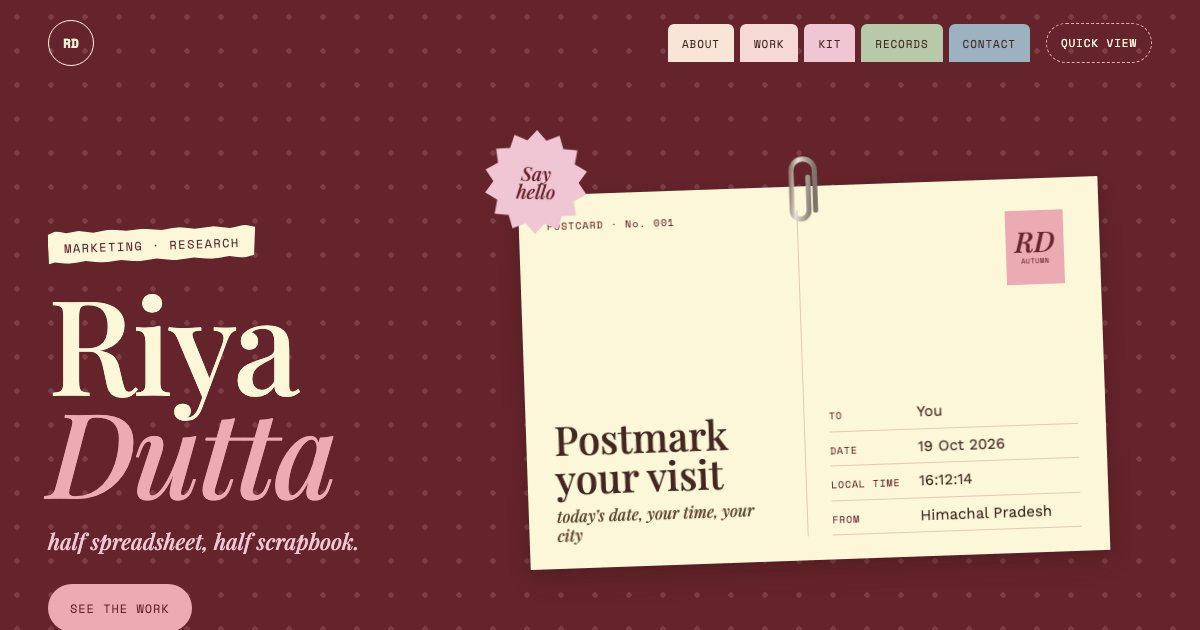
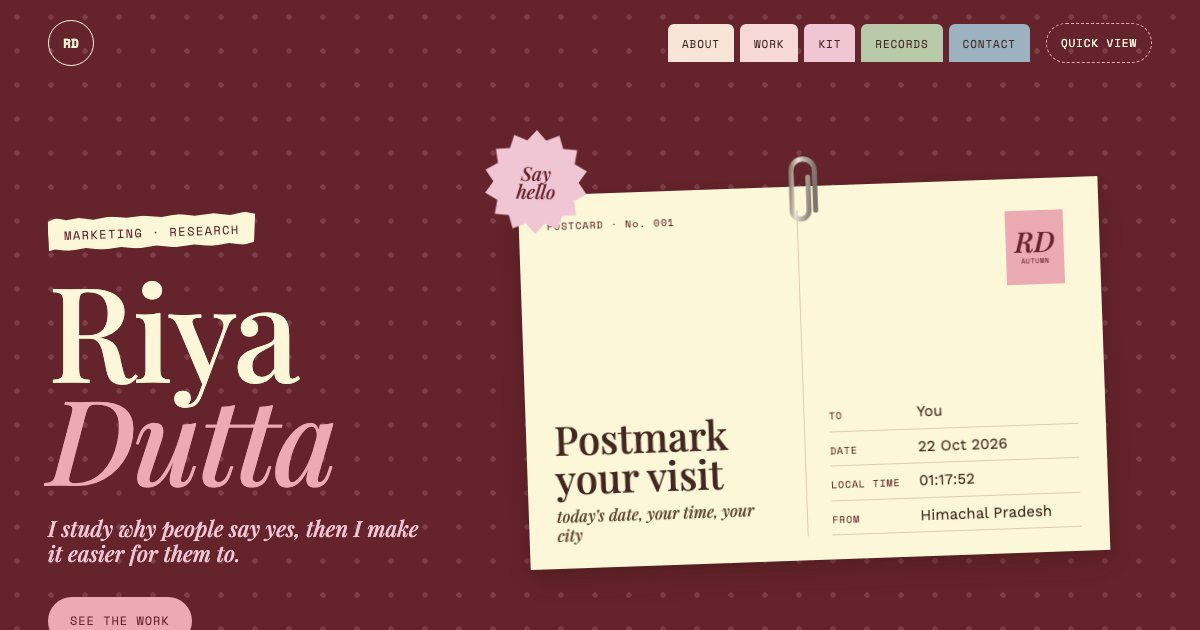
Update tagline

diff --git a/index.html b/index.html
@@ -690,7 +690,7 @@ body{margin:0;background:var(--vanilla)}
 </header>
 <div data-if="full" style="display: contents">
 <div style="display: flex; flex-wrap: wrap; align-items: center; gap: 48px 56px; padding: 44px 0 100px">
-<div style="flex: 1 1 380px; min-width: 0; max-width: 440px"><span class="torn" style="display: inline-block; padding: 9px 16px 7px; background: var(--vanilla); color: var(--cherry); font-family: var(--font-mono); font-size: 12px; letter-spacing: 0.12em; transform: rotate(-2deg)">MARKETING · RESEARCH</span><h1 style="margin: 22px 0 0; font-family: var(--font-display); font-weight: 500; line-height: 0.88; color: var(--vanilla)"><span style="display: block; font-size: 132px; letter-spacing: -0.02em">Riya</span><span style="display: block; font-style: italic; font-size: 118px; letter-spacing: -0.02em; color: var(--blossom)">Dutta</span></h1><p style="margin: 26px 0 0; font-family: var(--font-display); font-style: italic; font-size: 22px; line-height: 1.15; color: var(--pink)">half spreadsheet, half scrapbook.</p><div style="display: flex; flex-wrap: wrap; gap: 10px; margin-top: 30px">
+<div style="flex: 1 1 380px; min-width: 0; max-width: 440px"><span class="torn" style="display: inline-block; padding: 9px 16px 7px; background: var(--vanilla); color: var(--cherry); font-family: var(--font-mono); font-size: 12px; letter-spacing: 0.12em; transform: rotate(-2deg)">MARKETING · RESEARCH</span><h1 style="margin: 22px 0 0; font-family: var(--font-display); font-weight: 500; line-height: 0.88; color: var(--vanilla)"><span style="display: block; font-size: 132px; letter-spacing: -0.02em">Riya</span><span style="display: block; font-style: italic; font-size: 118px; letter-spacing: -0.02em; color: var(--blossom)">Dutta</span></h1><p style="margin: 26px 0 0; font-family: var(--font-display); font-style: italic; font-size: 22px; line-height: 1.15; color: var(--pink)">I study why people say yes, then I make it easier for them to.</p><div style="display: flex; flex-wrap: wrap; gap: 10px; margin-top: 30px">
 <a href="#work" style="display: inline-flex; align-items: center; min-height: 48px; padding: 0 22px; font-family: var(--font-mono); font-size: 12px; letter-spacing: 0.08em; text-transform: uppercase; color: var(--cherry); background: var(--blossom); border-radius: 999px">See the work</a>
 </div></div>
 <div style="flex: 999 1 560px; min-width: 0; position: relative; height: 600px">
@@ -715,7 +715,7 @@ body{margin:0;background:var(--vanilla)}
 </div>
 <div class="face2 back" style="padding: 24px 28px; background: var(--vanilla); color: var(--truffle); box-shadow: var(--shadow-lift); display: flex; flex-direction: column; gap: 10px">
 <span style="font-family: var(--font-mono); font-size: 10px; letter-spacing: 0.1em; color: var(--cherry)">FROM RIYA, TO YOU</span>
-<p style="margin: 0; font-family: var(--font-display); font-style: italic; font-size: 21px; line-height: 1.35">I make sense of things by cutting them out and arranging them until they say something.</p>
+<p style="margin: 0; font-family: var(--font-display); font-style: italic; font-size: 21px; line-height: 1.35">I study why people say yes, then I make it easier for them to.</p>
 <span style="font-family: var(--font-display); font-style: italic; font-size: 29px; line-height: 1; color: var(--cherry)">Riya</span>
 <div style="margin-top: auto; display: flex; flex-direction: column; gap: 5px">
 <span style="display: flex; align-items: baseline; gap: 10px; padding-bottom: 6px; border-bottom: 1px solid var(--ivory-deep); font-size: 15px; line-height: 1.3; "><span style="flex: none; width: 78px; font-family: var(--font-mono); font-size: 10px; font-style: normal; letter-spacing: 0.08em; color: var(--cherry)">NOW</span>Marketing and Sales Consultant, B2Ne</span><span style="display: flex; align-items: baseline; gap: 10px; padding-bottom: 6px; border-bottom: 1px solid var(--ivory-deep); font-size: 15px; line-height: 1.3; "><span style="flex: none; width: 78px; font-family: var(--font-mono); font-size: 10px; font-style: normal; letter-spacing: 0.08em; color: var(--cherry)">RESEARCH</span>Consumer behaviour, AI, trust, cognition</span>
@@ -743,7 +743,7 @@ body{margin:0;background:var(--vanilla)}
 <div style="max-width: 980px; margin: 0 auto; padding: 0 clamp(20px, 4vw, 56px)">
 <p style="margin: 0 0 12px; font-family: var(--font-mono); font-size: 11px; letter-spacing: 0.1em; color: var(--cherry)">QUICK VIEW · ONE PAGE</p>
 <div style="display: flex; align-items: center; gap: 28px"><img src="assets/img/riya-portrait.jpg" alt="Riya Dutta" style="flex: none; width: 120px; aspect-ratio: 4 / 5; object-fit: cover; border-radius: 6px; box-shadow: var(--shadow-paper)"><h1 style="margin: 0; font-family: var(--font-display); font-weight: 500; font-size: 80px; line-height: 0.95">Riya <em style="color: var(--cherry)">Dutta</em></h1></div>
-<p style="margin: 12px 0 0; font-family: var(--font-display); font-style: italic; font-size: 22px; line-height: 1.4; color: var(--cocoa)">I make sense of things by cutting them out and arranging them until they say something.</p>
+<p style="margin: 12px 0 0; font-family: var(--font-display); font-style: italic; font-size: 22px; line-height: 1.4; color: var(--cocoa)">I study why people say yes, then I make it easier for them to.</p>
 <p style="margin: 18px 0 0; display: flex; flex-wrap: wrap; gap: 8px 18px; font-family: var(--font-mono); font-size: 12px"><a href="https://www.linkedin.com/in/riyaa-duttaa" rel="me">LinkedIn</a><a href="mailto:riyavdutta@gmail.com">riyavdutta@gmail.com</a></p>
 <section style="display: grid; grid-template-columns: 200px minmax(0, 1fr); gap: 32px; padding: 30px 0 0"><h2 style="margin: 14px 0 0; font-family: var(--font-mono); font-size: 11px; font-weight: 400; letter-spacing: 0.1em; color: var(--cherry)">EXPERIENCE</h2><div><div style="display: grid; grid-template-columns: minmax(0, 1fr) 150px; gap: 24px; padding: 14px 0; border-bottom: 1px solid var(--ivory-deep)"><div><div style="font-size: 18px; line-height: 1.3; font-weight: 500">Marketing and Sales Consultant</div><div style="font-size: 15px; color: var(--cocoa-soft)">Business To Nexus (B2Ne) · Remote</div></div><div style="font-family: var(--font-mono); font-size: 12px; color: var(--cherry); text-align: right">2026 – now</div></div><div style="display: grid; grid-template-columns: minmax(0, 1fr) 150px; gap: 24px; padding: 14px 0; border-bottom: 1px solid var(--ivory-deep)"><div><div style="font-size: 18px; line-height: 1.3; font-weight: 500">Research Intern, Behavioural and Cognitive Methods</div><div style="font-size: 15px; color: var(--cocoa-soft)">ISLab, University of the Aegean · Samos</div></div><div style="font-family: var(--font-mono); font-size: 12px; color: var(--cherry); text-align: right">2025</div></div><div style="display: grid; grid-template-columns: minmax(0, 1fr) 150px; gap: 24px; padding: 14px 0; border-bottom: 1px solid var(--ivory-deep)"><div><div style="font-size: 18px; line-height: 1.3; font-weight: 500">Management Trainee</div><div style="font-size: 15px; color: var(--cocoa-soft)">HDFC Bank</div></div><div style="font-family: var(--font-mono); font-size: 12px; color: var(--cherry); text-align: right">2024 – 2025</div></div></div></section>
 <section style="display: grid; grid-template-columns: 200px minmax(0, 1fr); gap: 32px; padding: 30px 0 0"><h2 style="margin: 14px 0 0; font-family: var(--font-mono); font-size: 11px; font-weight: 400; letter-spacing: 0.1em; color: var(--cherry)">EDUCATION</h2><div><div style="display: grid; grid-template-columns: minmax(0, 1fr) 150px; gap: 24px; padding: 14px 0; border-bottom: 1px solid var(--ivory-deep)"><div><div style="font-size: 18px; line-height: 1.3; font-weight: 500">MBA, Marketing and Business Analytics</div><div style="font-size: 15px; color: var(--cocoa-soft)">LM Thapar School of Management · CGPA 8.50</div></div><div style="font-family: var(--font-mono); font-size: 12px; color: var(--cherry); text-align: right">2024 – 2026</div></div><div style="display: grid; grid-template-columns: minmax(0, 1fr) 150px; gap: 24px; padding: 14px 0; border-bottom: 1px solid var(--ivory-deep)"><div><div style="font-size: 18px; line-height: 1.3; font-weight: 500">B.Sc. (Hons.) Horticulture</div><div style="font-size: 15px; color: var(--cocoa-soft)">Dr. YS Parmar University of Horticulture and Forestry</div></div><div style="font-family: var(--font-mono); font-size: 12px; color: var(--cherry); text-align: right">2019 – 2023</div></div></div></section>
@@ -770,8 +770,7 @@ body{margin:0;background:var(--vanilla)}
 </div>
 <div style="flex: 1 1 460px; min-width: 0">
 <p style="margin: 0 0 18px; font-family: var(--font-mono); font-size: 11px; letter-spacing: 0.14em; color: var(--cherry)">ABOUT</p>
-<h2 id="about-h" style="font-family: var(--font-display); font-style: italic; font-weight: 500; font-size: 44px; line-height: 1.15; color: var(--cherry)">I make sense of things by cutting them out and arranging them until they say something.</h2>
-<p style="margin: 22px 0 28px; font-size: 20px; line-height: 1.5; color: var(--truffle)">I’m a marketer who studies how people decide: what they notice, what they trust, and what makes them act.</p>
+<h2 id="about-h" style="margin: 0 0 28px; font-family: var(--font-display); font-style: italic; font-weight: 500; font-size: 44px; line-height: 1.15; color: var(--cherry)">I’m a marketer who studies how people decide: what they notice, what they trust, and what makes them act.</h2>
 <ul style="border-bottom: 1px solid var(--ivory-deep)">
 <li style="display: grid; grid-template-columns: 56px minmax(0, 1fr); gap: 4px 16px; padding: 18px 0; border-top: 1px solid var(--ivory-deep)"><span style="grid-row: span 3; font-family: var(--font-display); font-style: italic; font-size: 44px; line-height: 0.9; color: var(--blossom-deep)">01</span><span style="font-family: var(--font-mono); font-size: 10px; letter-spacing: 0.12em; color: var(--cherry)">RESEARCH</span><span style="font-family: var(--font-display); font-weight: 500; font-size: 22px; line-height: 1.25; color: var(--truffle)">Co-author, TRACE-BRL</span><span style="font-size: 15px; line-height: 1.55; color: var(--cocoa)">A maturity model for behavioural research labs. Under review at <em>Cognition, Technology &amp; Work</em> (Springer Nature).</span></li>
 <li style="display: grid; grid-template-columns: 56px minmax(0, 1fr); gap: 4px 16px; padding: 18px 0; border-top: 1px solid var(--ivory-deep)"><span style="grid-row: span 3; font-family: var(--font-display); font-style: italic; font-size: 44px; line-height: 0.9; color: var(--blossom-deep)">02</span><span style="font-family: var(--font-mono); font-size: 10px; letter-spacing: 0.12em; color: var(--cherry)">BRAND FROM ZERO</span><span style="font-family: var(--font-display); font-weight: 500; font-size: 22px; line-height: 1.25; color: var(--truffle)">B2Ne’s positioning, website, pitch deck and content</span><span style="font-size: 15px; line-height: 1.55; color: var(--cocoa)">Built as a team of one for marketing.&nbsp;</span></li>
@@ -1442,7 +1441,7 @@ body{margin:0;background:var(--vanilla)}
 <div style="max-width: 980px; margin: 0 auto; padding: 0 20px">
 <p style="margin: 0 0 12px; font-family: var(--font-mono); font-size: 11px; letter-spacing: 0.1em; color: var(--cherry)">QUICK VIEW · ONE PAGE</p>
 <div style="display: flex; align-items: center; gap: 16px"><img src="assets/img/riya-portrait.jpg" alt="Riya Dutta" style="flex: none; width: 84px; aspect-ratio: 4 / 5; object-fit: cover; border-radius: 6px; box-shadow: var(--shadow-paper)"><h1 style="margin: 0; font-family: var(--font-display); font-weight: 500; font-size: 48px; line-height: 0.95">Riya <em style="color: var(--cherry)">Dutta</em></h1></div>
-<p style="margin: 12px 0 0; font-family: var(--font-display); font-style: italic; font-size: 18px; line-height: 1.4; color: var(--cocoa)">I make sense of things by cutting them out and arranging them until they say something.</p>
+<p style="margin: 12px 0 0; font-family: var(--font-display); font-style: italic; font-size: 18px; line-height: 1.4; color: var(--cocoa)">I study why people say yes, then I make it easier for them to.</p>
 <p style="margin: 18px 0 0; display: flex; flex-wrap: wrap; gap: 8px 18px; font-family: var(--font-mono); font-size: 12px"><a href="https://www.linkedin.com/in/riyaa-duttaa" rel="me">LinkedIn</a><a href="mailto:riyavdutta@gmail.com">riyavdutta@gmail.com</a></p>
 <section style="padding: 26px 0 0"><h2 style="margin: 0 0 6px; font-family: var(--font-mono); font-size: 11px; font-weight: 400; letter-spacing: 0.1em; color: var(--cherry)">EXPERIENCE</h2><div style="padding: 14px 0; border-bottom: 1px solid var(--ivory-deep)"><div style="font-size: 17px; line-height: 1.3; font-weight: 500">Marketing and Sales Consultant</div><div style="font-size: 14px; color: var(--cocoa-soft)">Business To Nexus (B2Ne) · Remote</div><div style="font-family: var(--font-mono); font-size: 11px; color: var(--cherry); margin-top: 4px">2026 – now</div></div><div style="padding: 14px 0; border-bottom: 1px solid var(--ivory-deep)"><div style="font-size: 17px; line-height: 1.3; font-weight: 500">Research Intern, Behavioural and Cognitive Methods</div><div style="font-size: 14px; color: var(--cocoa-soft)">ISLab, University of the Aegean · Samos</div><div style="font-family: var(--font-mono); font-size: 11px; color: var(--cherry); margin-top: 4px">2025</div></div><div style="padding: 14px 0; border-bottom: 1px solid var(--ivory-deep)"><div style="font-size: 17px; line-height: 1.3; font-weight: 500">Management Trainee</div><div style="font-size: 14px; color: var(--cocoa-soft)">HDFC Bank</div><div style="font-family: var(--font-mono); font-size: 11px; color: var(--cherry); margin-top: 4px">2024 – 2025</div></div></section>
 <section style="padding: 26px 0 0"><h2 style="margin: 0 0 6px; font-family: var(--font-mono); font-size: 11px; font-weight: 400; letter-spacing: 0.1em; color: var(--cherry)">EDUCATION</h2><div style="padding: 14px 0; border-bottom: 1px solid var(--ivory-deep)"><div style="font-size: 17px; line-height: 1.3; font-weight: 500">MBA, Marketing and Business Analytics</div><div style="font-size: 14px; color: var(--cocoa-soft)">LM Thapar School of Management · CGPA 8.50</div><div style="font-family: var(--font-mono); font-size: 11px; color: var(--cherry); margin-top: 4px">2024 – 2026</div></div><div style="padding: 14px 0; border-bottom: 1px solid var(--ivory-deep)"><div style="font-size: 17px; line-height: 1.3; font-weight: 500">B.Sc. (Hons.) Horticulture</div><div style="font-size: 14px; color: var(--cocoa-soft)">Dr. YS Parmar University of Horticulture and Forestry</div><div style="font-family: var(--font-mono); font-size: 11px; color: var(--cherry); margin-top: 4px">2019 – 2023</div></div></section>
@@ -1454,7 +1453,7 @@ body{margin:0;background:var(--vanilla)}
 </div>
 <div data-if="full" style="display: contents">
 <section style="background-color: var(--cherry); background-image: radial-gradient(rgba(240,197,212,0.16) 2px, transparent 2.5px); background-size: 26px 26px; color: var(--vanilla); padding: 34px 16px 44px">
-<span class="torn" style="display: inline-block; padding: 9px 16px 7px; background: var(--vanilla); color: var(--cherry); font-family: var(--font-mono); font-size: 11px; letter-spacing: 0.12em; transform: rotate(-2deg)">MARKETING · RESEARCH</span><h1 style="margin: 16px 0 0; font-family: var(--font-display); font-weight: 500; line-height: 0.88; color: var(--vanilla)"><span style="display: block; font-size: 88px; letter-spacing: -0.02em">Riya</span><span style="display: block; font-style: italic; font-size: 78px; letter-spacing: -0.02em; color: var(--blossom)">Dutta</span></h1><p style="margin: 18px 0 0; font-family: var(--font-display); font-style: italic; font-size: 17px; line-height: 1.15; color: var(--pink)">half spreadsheet, half scrapbook.</p><div style="display: flex; flex-wrap: wrap; gap: 10px; margin-top: 22px">
+<span class="torn" style="display: inline-block; padding: 9px 16px 7px; background: var(--vanilla); color: var(--cherry); font-family: var(--font-mono); font-size: 11px; letter-spacing: 0.12em; transform: rotate(-2deg)">MARKETING · RESEARCH</span><h1 style="margin: 16px 0 0; font-family: var(--font-display); font-weight: 500; line-height: 0.88; color: var(--vanilla)"><span style="display: block; font-size: 88px; letter-spacing: -0.02em">Riya</span><span style="display: block; font-style: italic; font-size: 78px; letter-spacing: -0.02em; color: var(--blossom)">Dutta</span></h1><p style="margin: 18px 0 0; font-family: var(--font-display); font-style: italic; font-size: 17px; line-height: 1.15; color: var(--pink)">I study why people say yes, then I make it easier for them to.</p><div style="display: flex; flex-wrap: wrap; gap: 10px; margin-top: 22px">
 <a href="#work" style="display: inline-flex; align-items: center; min-height: 48px; padding: 0 22px; font-family: var(--font-mono); font-size: 12px; letter-spacing: 0.08em; text-transform: uppercase; color: var(--cherry); background: var(--blossom); border-radius: 999px">See the work</a>
 </div>
 <div style="position: relative; margin-top: 46px">
@@ -1478,7 +1477,7 @@ body{margin:0;background:var(--vanilla)}
 </div>
 <div class="face2 back" style="padding: 16px; background: var(--vanilla); color: var(--truffle); box-shadow: var(--shadow-lift); display: flex; flex-direction: column; gap: 6px">
 <span style="font-family: var(--font-mono); font-size: 10px; letter-spacing: 0.1em; color: var(--cherry)">FROM RIYA, TO YOU</span>
-<p style="margin: 0; font-family: var(--font-display); font-style: italic; font-size: 16px; line-height: 1.35">I make sense of things by cutting them out and arranging them until they say something.</p>
+<p style="margin: 0; font-family: var(--font-display); font-style: italic; font-size: 16px; line-height: 1.35">I study why people say yes, then I make it easier for them to.</p>
 <span style="font-family: var(--font-display); font-style: italic; font-size: 22px; line-height: 1; color: var(--cherry)">Riya</span>
 <div style="margin-top: auto; display: flex; flex-direction: column; gap: 5px">
 <span style="display: flex; align-items: baseline; gap: 10px; padding-bottom: 6px; border-bottom: 1px solid var(--ivory-deep); font-size: 13px; line-height: 1.3; "><span style="flex: none; width: 78px; font-family: var(--font-mono); font-size: 10px; font-style: normal; letter-spacing: 0.08em; color: var(--cherry)">NOW</span>Marketing and Sales Consultant, B2Ne</span><span style="display: flex; align-items: baseline; gap: 10px; padding-bottom: 6px; border-bottom: 1px solid var(--ivory-deep); font-size: 13px; line-height: 1.3; "><span style="flex: none; width: 78px; font-family: var(--font-mono); font-size: 10px; font-style: normal; letter-spacing: 0.08em; color: var(--cherry)">RESEARCH</span>Consumer behaviour, AI, trust, cognition</span>
@@ -1512,8 +1511,7 @@ body{margin:0;background:var(--vanilla)}
 </div>
 <div style="flex: 1 1 460px; min-width: 0">
 <p style="margin: 0 0 18px; font-family: var(--font-mono); font-size: 11px; letter-spacing: 0.14em; color: var(--cherry)">ABOUT</p>
-<h2 id="about-h" style="font-family: var(--font-display); font-style: italic; font-weight: 500; font-size: 30px; line-height: 1.15; color: var(--cherry)">I make sense of things by cutting them out and arranging them until they say something.</h2>
-<p style="margin: 16px 0 22px; font-size: 17px; line-height: 1.5; color: var(--truffle)">I’m a marketer who studies how people decide: what they notice, what they trust, and what makes them act.</p>
+<h2 id="about-h" style="margin: 0 0 28px; font-family: var(--font-display); font-style: italic; font-weight: 500; font-size: 30px; line-height: 1.15; color: var(--cherry)">I’m a marketer who studies how people decide: what they notice, what they trust, and what makes them act.</h2>
 <ul style="border-bottom: 1px solid var(--ivory-deep)">
 <li style="display: grid; grid-template-columns: 44px minmax(0, 1fr); gap: 4px 16px; padding: 16px 0; border-top: 1px solid var(--ivory-deep)"><span style="grid-row: span 3; font-family: var(--font-display); font-style: italic; font-size: 34px; line-height: 0.9; color: var(--blossom-deep)">01</span><span style="font-family: var(--font-mono); font-size: 10px; letter-spacing: 0.12em; color: var(--cherry)">RESEARCH</span><span style="font-family: var(--font-display); font-weight: 500; font-size: 19px; line-height: 1.25; color: var(--truffle)">Co-author, TRACE-BRL</span><span style="font-size: 14px; line-height: 1.55; color: var(--cocoa)">A maturity model for behavioural research labs. Under review at <em>Cognition, Technology &amp; Work</em> (Springer Nature).</span></li>
 <li style="display: grid; grid-template-columns: 44px minmax(0, 1fr); gap: 4px 16px; padding: 16px 0; border-top: 1px solid var(--ivory-deep)"><span style="grid-row: span 3; font-family: var(--font-display); font-style: italic; font-size: 34px; line-height: 0.9; color: var(--blossom-deep)">02</span><span style="font-family: var(--font-mono); font-size: 10px; letter-spacing: 0.12em; color: var(--cherry)">BRAND FROM ZERO</span><span style="font-family: var(--font-display); font-weight: 500; font-size: 19px; line-height: 1.25; color: var(--truffle)">B2Ne’s positioning, website, pitch deck and content</span><span style="font-size: 14px; line-height: 1.55; color: var(--cocoa)">Built as a team of one for marketing.</span></li>
